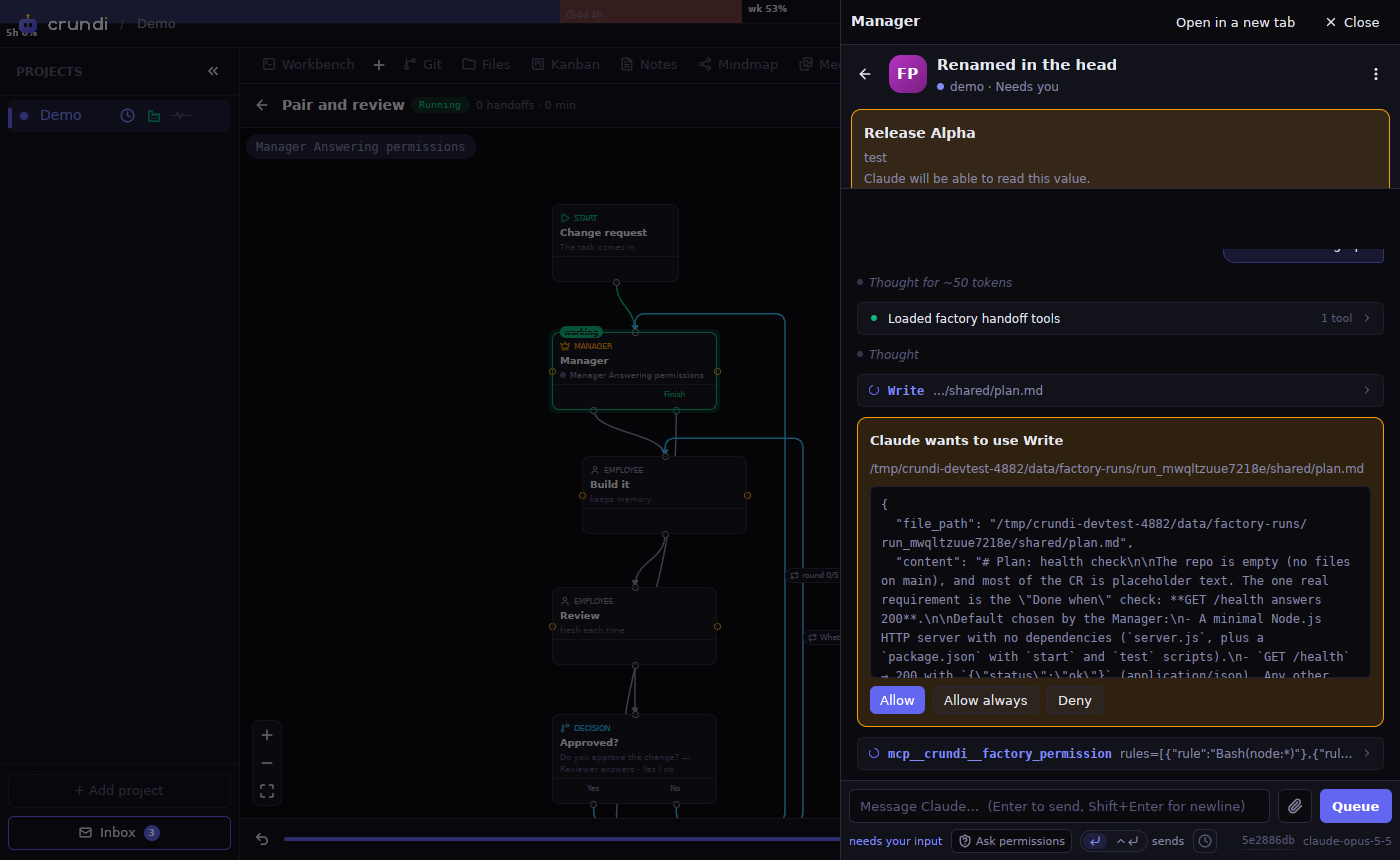
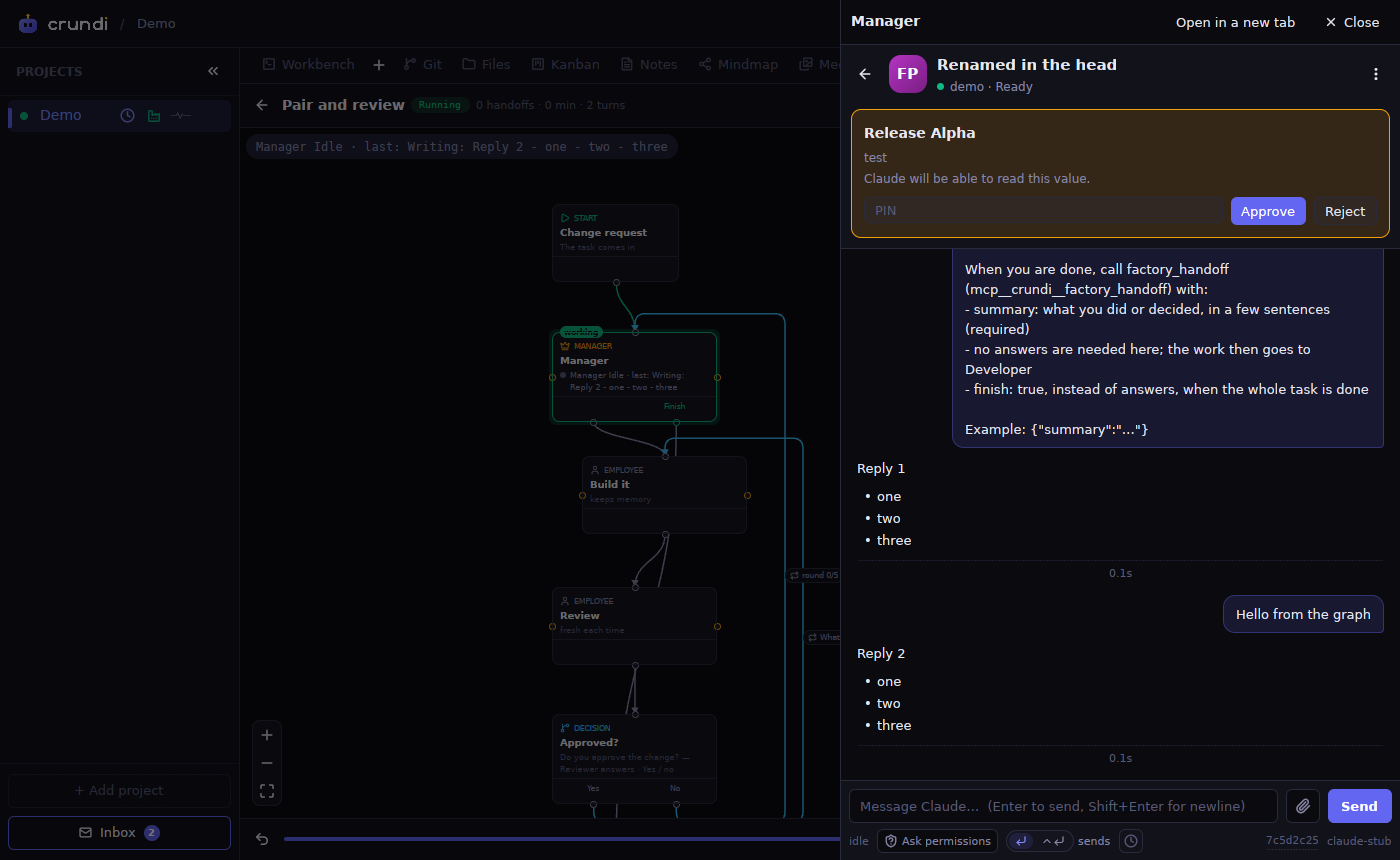
factory: Planning — On HEAD 9032bb45 with a clean tree

diff --git a/native-v2/crates/planning/src/factories/cp_head.rs b/native-v2/crates/planning/src/factories/cp_head.rs
@@ -335,6 +335,9 @@ pub struct AskCards {
     six: Rc<Cell<bool>>,
     /// The cards' drawn height, as last painted (for the suite: F216).
     drawn_h: Rc<Cell<f32>>,
+    /// The host's bottom and the last card's, as last painted: a card cut
+    /// off by the host (F224) shows as the card's bottom below the host's.
+    bottoms: Rc<Cell<(f32, f32)>>,
     /// The requests shown, as last drawn (a change of them redraws).
     shown: Vec<Req>,
     /// "Allow for this chat" on the open card (the web's askAllow): ticked,
@@ -354,7 +357,7 @@ impl AskCards {
             cx.observe_in(&a, window, |this, _, window, cx| this.sync(window, cx)),
             cx.subscribe_in(&pin, window, |this, _, ev: &w::InputEvent, window, cx| if let w::InputEvent::PressEnter { .. } = ev { this.approve(window, cx); }),
         ];
-        let mut me = AskCards { id: id.to_string(), project: project.to_string(), armed: String::new(), auto: false, err: String::new(), pin, ph: "PIN", six, drawn_h: Rc::new(Cell::new(0.)), shown: vec![], allow: (false, "1h"), preauth: false, _subs: subs };
+        let mut me = AskCards { id: id.to_string(), project: project.to_string(), armed: String::new(), auto: false, err: String::new(), pin, ph: "PIN", six, drawn_h: Rc::new(Cell::new(0.)), bottoms: Rc::new(Cell::new((0., 0.))), shown: vec![], allow: (false, "1h"), preauth: false, _subs: subs };
         me.sync(window, cx);
         // (After this update: the Factories tab, which keeps the server's
         // capabilities, may be the one making this card.)
@@ -457,24 +460,30 @@ impl AskCards {
     }
 
     fn props(&self, cx: &App) -> Value {
+        let clipped = { let (host, last) = self.bottoms.get(); !self.shown.is_empty() && last > host + 0.5 };
         json!({ "cards": self.shown.iter().map(|r| json!({ "id": r.id, "name": r.name, "run": r.run, "armed": r.id == self.armed })).collect::<Vec<_>>(), "error": self.err,
             "pin": self.pin.read(cx).value().to_string(), "placeholder": self.ph,
-            "allow": { "on": self.allow.0, "for": self.allow.1 }, "h": self.drawn_h.get() })
+            "allow": { "on": self.allow.0, "for": self.allow.1 }, "h": self.drawn_h.get(),
+            "clipped": clipped })
     }
 }
 
 impl Render for AskCards {
-    fn render(&mut self, _: &mut Window, cx: &mut Context<Self>) -> impl IntoElement {
+    fn render(&mut self, window: &mut Window, cx: &mut Context<Self>) -> impl IntoElement {
         crundi_core::driver::rendered("fx-cp-ask");
         if self.shown.is_empty() { self.drawn_h.set(0.); return div().into_any_element(); }
         let line = |cls_why: bool, t: String| div().when(cls_why, |d| d.mt(T::SP_4).text_size(T::TEXT_12).text_color(T::text_secondary()).line_height(relative(1.4))).child(t);
         let mut host = div().id("fx-cp-ask").flex().flex_col().gap(T::SP_8).p(T::SP_10).bg(T::bg_secondary()).border_b_1().border_color(T::border())
-            .max_h(relative(0.6)).overflow_y_scroll()
-            .child({ let h = self.drawn_h.clone(); canvas(move |b, _, _| h.set(f32::from(b.size.height)), |_, _, _, _| {}).absolute().top_0().left_0().w_full().h_full() });
+            // The web's max-height: 60vh. (A percentage here would resolve
+            // against the auto-height wrapper's measured height, the cards'
+            // own, and clip them to 60% of themselves: F224.)
+            .max_h(window.viewport_size().height * 0.6).overflow_y_scroll()
+            .child({ let (h, bt) = (self.drawn_h.clone(), self.bottoms.clone()); canvas(move |b, _, _| { h.set(f32::from(b.size.height)); bt.set((f32::from(b.bottom()), bt.get().1)); }, |_, _, _, _| {}).absolute().top_0().left_0().w_full().h_full() });
+        let n = self.shown.len();
         for (i, r) in self.shown.iter().enumerate() {
             let armed = r.id == self.armed;
             let head = if r.run { format!("Run a command with {}", r.name) } else { format!("Release {}", r.name) };
-            let mut card = div().border_1().border_color(T::yellow()).bg(T::yellow_dim()).rounded(T::R_CARD).p(T::SP_12)
+            let mut card = div().flex_none().border_1().border_color(T::yellow()).bg(T::yellow_dim()).rounded(T::R_CARD).p(T::SP_12)
                 .child(div().text_size(T::TEXT_14).font_weight(T::W_SEMIBOLD).child(head))
                 .when(!r.reason.is_empty(), |d| d.child(line(true, r.reason.clone())));
             if r.run {
@@ -506,6 +515,11 @@ impl Render for AskCards {
                         .child("This chat may then run commands with this secret without asking, until then. Its value is never shown."))));
             }
             card = card.when(armed && !self.err.is_empty(), |d| d.child(div().mt(T::SP_6).text_size(T::TEXT_12).text_color(T::red()).child(self.err.clone())));
+            if i + 1 == n {
+                // (Its paint bounds are the card's, scrolled: unclipped by the host.)
+                let bt = self.bottoms.clone();
+                card = card.relative().child(canvas(move |b, _, _| bt.set((bt.get().0, f32::from(b.bottom()))), |_, _, _, _| {}).absolute().top_0().left_0().w_full().h_full());
+            }
             host = host.child(card);
         }
         host.into_any_element()

diff --git a/native-v2/crates/planning/src/kanban/view.rs b/native-v2/crates/planning/src/kanban/view.rs
@@ -77,13 +77,16 @@ pub struct Host {
 impl Host {
     pub fn new(_stores: &Stores, embedded: bool, _window: &mut Window, cx: &mut App) -> Self {
         let store = super::store(cx);
-        let msg = cx.new(|cx| Msg::new(store.clone(), cx));
+        let hscroll = ScrollHandle::new();
+        // (The board's sideways edge scroll for its own drag, F225: kept by
+        // the Msg view, which redraws the board's offset.)
+        let msg = cx.new(|cx| { let mut m = Msg::new(store.clone(), cx); let hs = hscroll.clone(); m._edge = Some(super::own_edge(w::Scroller::Handle(hs.clone()), move || hs.bounds(), true, false, cx)); m });
         let toolbar = cx.new(|cx| Toolbar::new(store.clone(), cx));
         let stack = cx.new(|cx| StackView::new(store.clone(), cx));
         let trash = cx.new(|cx| TrashView::new(store.clone(), cx));
         let history = cx.new(|cx| HistView::new(store.clone(), cx));
         let overlay = cx.new(|cx| Overlay::new(store.clone(), embedded, cx));
-        Host { store, msg, toolbar, cols: Rc::default(), stack, trash, history, overlay, width: Rc::new(Cell::new(0.)), hscroll: ScrollHandle::new() }
+        Host { store, msg, toolbar, cols: Rc::default(), stack, trash, history, overlay, width: Rc::new(Cell::new(0.)), hscroll }
     }
 
     /// The host's width changed (measured as it was laid out): each view
@@ -174,12 +177,12 @@ impl Render for Tab {
 #[derive(Clone, PartialEq, Default)]
 struct Shape { state: String, error: String, view: String, ncols: usize, geom: Geom }
 
-pub struct Msg { store: Entity<KStore>, width: Pixels, shape: Shape, _sub: Subscription }
+pub struct Msg { store: Entity<KStore>, width: Pixels, shape: Shape, _sub: Subscription, _edge: Option<Subscription> }
 
 impl Msg {
     fn new(store: Entity<KStore>, cx: &mut Context<Self>) -> Self {
         let sub = cx.observe(&store, |this: &mut Self, _, cx| this.sync(cx));
-        let mut m = Msg { store, width: px(0.), shape: Shape::default(), _sub: sub };
+        let mut m = Msg { store, width: px(0.), shape: Shape::default(), _sub: sub, _edge: None };
         m.shape = m.read(cx);
         m
     }
@@ -512,7 +515,10 @@ impl ColumnView {
             cx.observe(&store, |this: &mut Self, _, cx| if this.sync(cx) { cx.notify() }),
             cx.observe(&drag, |this: &mut Self, _, cx| if this.sync(cx) { cx.notify() }),
         ];
-        let mut v = ColumnView { store, idx, col: None, items: Rc::new(vec![]), list: ListState::new(0, ListAlignment::Top, T::SP_48 * 4.).measure_all(), geom, drop_here: false, hot: None, last_top: None, all_live: false, cards: Rc::default(), needed: px(4000.), hscroll, revealed: 0, centre: None, _subs: subs };
+        let list = ListState::new(0, ListAlignment::Top, T::SP_48 * 4.).measure_all();
+        let mut subs = subs;
+        { let l = list.clone(); subs.push(super::own_edge(w::Scroller::List(l.clone()), move || l.viewport_bounds(), false, true, cx)); }
+        let mut v = ColumnView { store, idx, col: None, items: Rc::new(vec![]), list, geom, drop_here: false, hot: None, last_top: None, all_live: false, cards: Rc::default(), needed: px(4000.), hscroll, revealed: 0, centre: None, _subs: subs };
         v.sync(cx);
         v
     }
@@ -661,7 +667,10 @@ impl StackView {
             cx.observe(&store, |this: &mut Self, _, cx| if this.sync(cx) { cx.notify() }),
             cx.observe(&drag, |this: &mut Self, _, cx| if this.sync(cx) { cx.notify() }),
         ];
-        let mut v = StackView { store, rows: Rc::new(vec![]), list: ListState::new(0, ListAlignment::Top, T::SP_48 * 4.), geom: Geom::default(), hot: None, last_top: None, all_live: false, cards: Rc::default(), revealed: 0, centre: None, _subs: subs };
+        let list = ListState::new(0, ListAlignment::Top, T::SP_48 * 4.);
+        let mut subs = subs;
+        { let l = list.clone(); subs.push(super::own_edge(w::Scroller::List(l.clone()), move || l.viewport_bounds(), false, true, cx)); }
+        let mut v = StackView { store, rows: Rc::new(vec![]), list, geom: Geom::default(), hot: None, last_top: None, all_live: false, cards: Rc::default(), revealed: 0, centre: None, _subs: subs };
         v.sync(cx);
         v
     }

diff --git a/native-v2/crates/planning/src/kanban/mod.rs b/native-v2/crates/planning/src/kanban/mod.rs
@@ -572,6 +572,48 @@ pub(crate) fn pointer_move(p: Point<Pixels>, cx: &mut App) {
     });
 }
 
+/// A card held near the edge of what scrolls it (the board sideways, a
+/// column's or the stacked board's list) scrolls it: the web's wbScrollTick,
+/// for the board's own drag (F225). A press on a card at rest (card_el.rs)
+/// starts only this drag, never a GPUI one, so `w::edge_scroll` (which
+/// follows GPUI drags: a live card's, a file's) doesn't see it. This follows
+/// the Drag entity and runs the same ramp (`w::edge_step` every
+/// `w::EDGE_TICK`) while the held card's pointer is in the 60 px band; while
+/// a GPUI drag is on, `w::edge_scroll` does it instead (never both). The
+/// view it's made in is notified when the scroller moved.
+pub(crate) fn own_edge<V: 'static>(s: w::Scroller, bounds: impl Fn() -> Bounds<Pixels> + 'static, x: bool, y: bool, cx: &mut Context<V>) -> Subscription {
+    const BAND: f32 = 60.;
+    let drag = store(cx).read(cx).drag.clone();
+    let running = Rc::new(std::cell::Cell::new(false));
+    let bounds: Rc<dyn Fn() -> Bounds<Pixels>> = Rc::new(bounds);
+    let at = |d: &Entity<Drag>, cx: &App| d.read(cx).drag.as_ref().map(|g| point(px(g.x), px(g.y)));
+    cx.observe(&drag, move |_, d, cx| {
+        if running.get() || cx.has_active_drag() { return; }
+        let Some(p) = at(&d, cx) else { return };
+        let b = bounds();
+        let (l, r, t, bt) = (f32::from(b.left()), f32::from(b.right()), f32::from(b.top()), f32::from(b.bottom()));
+        let (px_, py_) = (f32::from(p.x), f32::from(p.y));
+        let band = b.contains(&p) && ((x && (px_ > r - BAND || px_ < l + BAND)) || (y && (py_ > bt - BAND || py_ < t + BAND)));
+        if !band { return; }
+        running.set(true);
+        let (running, bounds, s, view) = (running.clone(), bounds.clone(), s.clone(), cx.entity_id());
+        cx.spawn(async move |_, cx| {
+            loop {
+                cx.background_executor().timer(w::EDGE_TICK).await;
+                let go = cx.update(|cx| {
+                    if cx.has_active_drag() { return false; }
+                    let Some(p) = at(&d, cx) else { return false };
+                    let (band, moved) = w::edge_step(&s, bounds(), p, x, y);
+                    if moved { cx.notify(view); }
+                    band
+                });
+                if !go { break; }
+            }
+            running.set(false);
+        }).detach();
+    })
+}
+
 pub(crate) fn pointer_up(cx: &mut App) {
     with(cx, |k| k.boxes.borrow_mut().pressing = false);
     let (d, t) = drag_with(cx, |k| { k.press = None; (k.drag.take(), k.target.take()) });
@@ -640,7 +682,7 @@ pub fn state(_: &Stores, window: &mut Window, cx: &mut App) -> Value {
         "deletedTodos": dd.iter().map(|r| json!({ "text": r.text, "sub": r.sub, "task": r.task, "todo": r.todo })).collect::<Vec<_>>(),
         "history": k.history.iter().map(|r| json!({ "text": r.text, "ts": r.sub })).collect::<Vec<_>>(),
         "taskDraft": input_value(&k.task_input, cx), "todoDraft": input_value(&k.todo_input, cx),
-        "held": d.press.is_some(),
+        "held": d.press.is_some(), "gpuiDrag": cx.has_active_drag(),
         "drag": match &d.drag { None => Value::Null, Some(g) => { let t = d.target.clone(); json!({ "id": g.id, "status": t.as_ref().map(|x| x.0.clone()).unwrap_or_default(), "index": t.as_ref().map(|x| x.1 as i64).unwrap_or(-1), "before": t.map(|x| x.2).unwrap_or_default() }) } },
         "clip": match &k.clip { None => Value::Null, Some(c) => json!({ "task": c.task,
             "pop": (pop_json(view::pop_rect(c, vp))), "items": k.media_task.get(&c.task).map(|v| v.iter().map(|it| { let id = s(it, "id"); json!({ "kind": s(it, "kind"), "image": k.thumbs.get(&id).is_some_and(|x| x.is_some()), "id": id }) }).collect::<Vec<_>>()).unwrap_or_default() }) },
